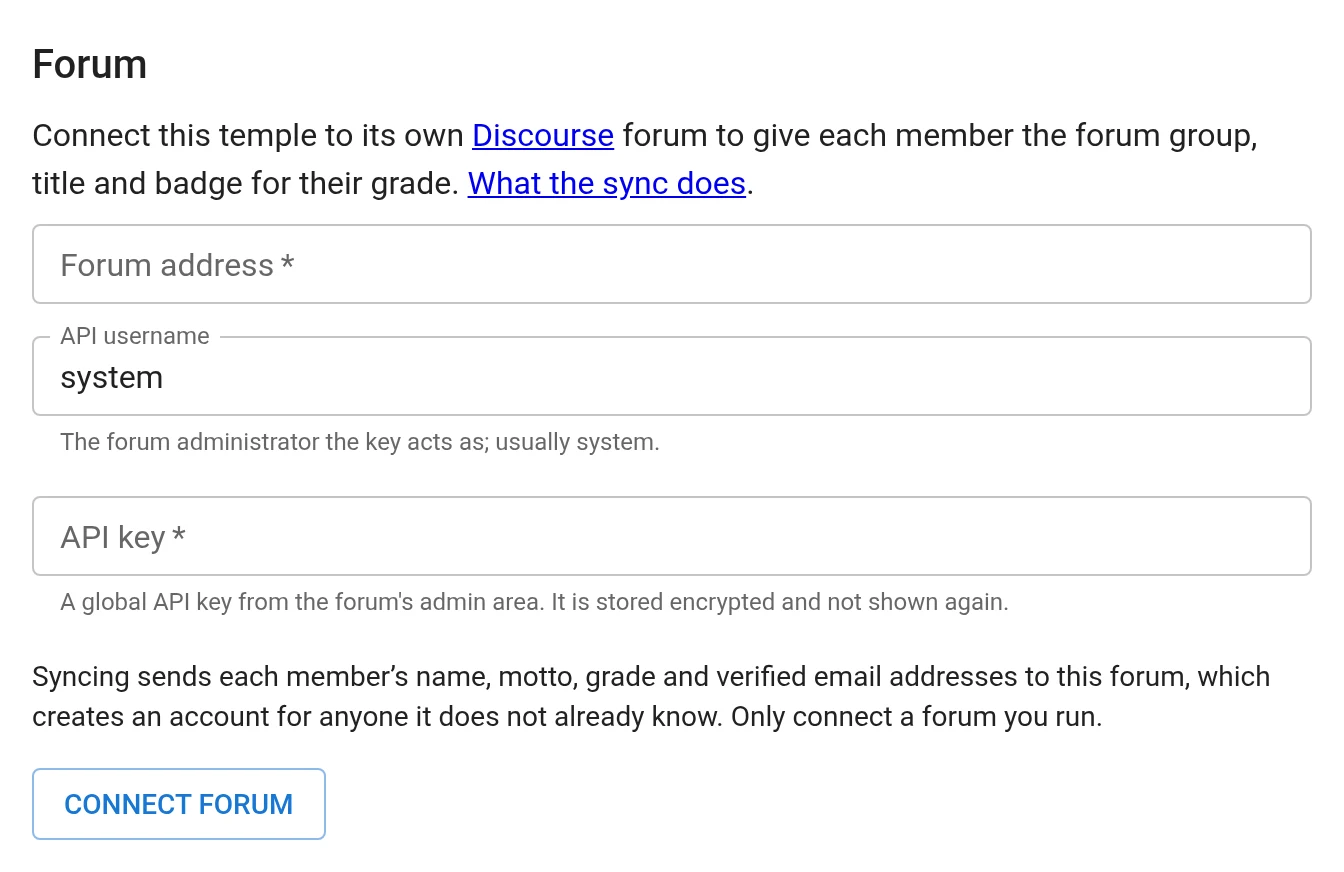
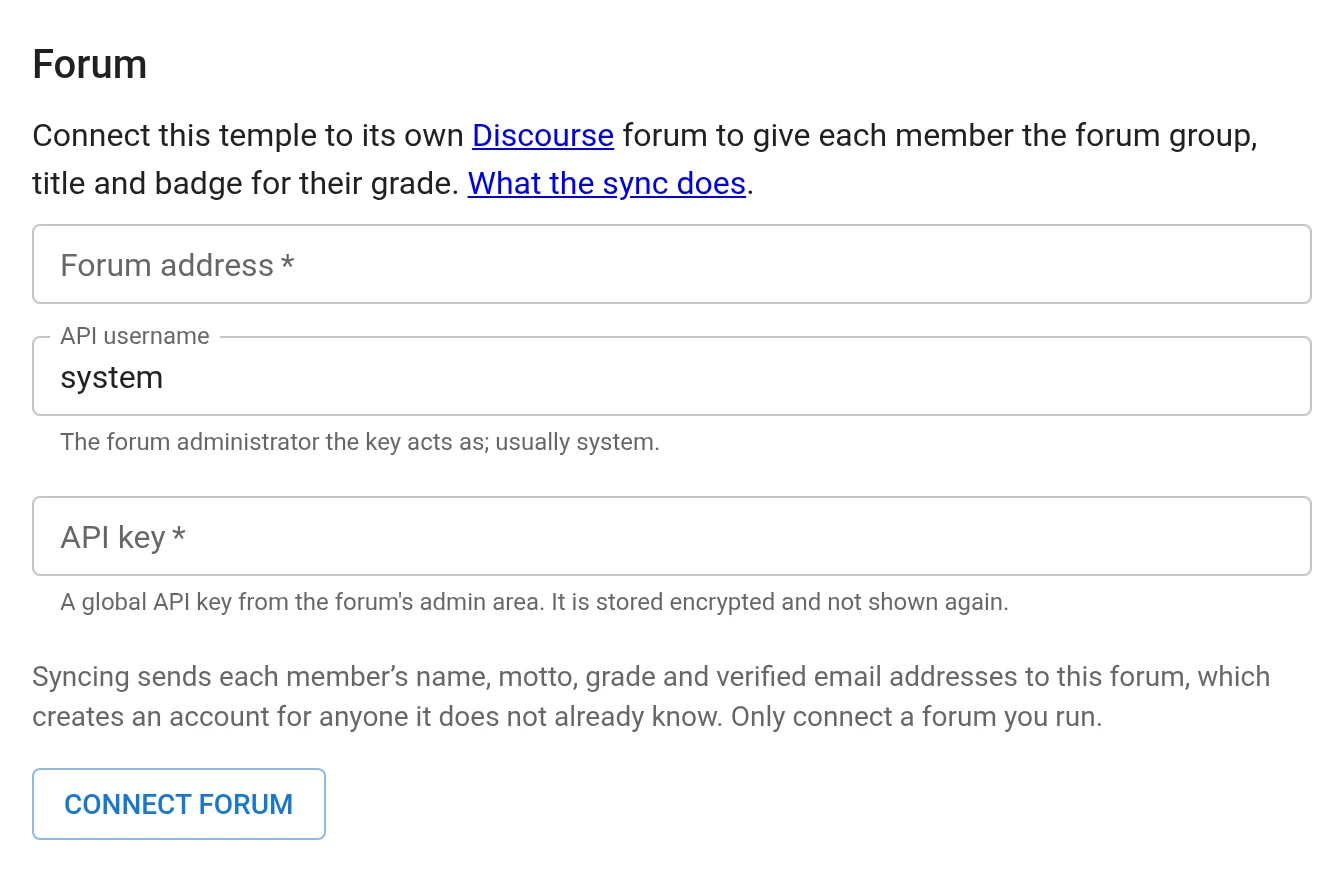
fix(app): Restore Typography colours lost in MUI 9
MUI 9 removed the deprecated system props from Typography, so a palette
path passed as `color` ("warning.main", "success.main",
"text.secondary") no longer reaches the styles: Typography's own
`color` prop only matches palette keys, and the type still accepts any
string, so nothing failed. The study pages' sync warnings, the temple
pages' confirmations and nine secondary notes have rendered in the body
colour since MUI 9 arrived (12 September, 458225ce) or since they were
written after it.

Use the palette keys Typography maps itself: `warning` and `success`
(palette.*.main) and `textSecondary` (text.secondary), as
RecentlyDeletedList already does. These were all the palette paths in
the app; every other `color` value is a palette key, `inherit`, or an
SVG attribute.

Checked in a browser on 127.0.0.1: the study, set and progress-page
warnings are now orange (#ed6c02), the temple and temple admin
confirmations green (#2e7d32), and the notes on the halls index,
upload page, ritual creation form, forum settings and ritual editor
grey (0.6 alpha) instead of the body's 0.87.

The create-ritual and forum-settings help screenshots show two of the
notes and are recaptured; only those lines change. forum-settings was
taken with capture.mts against a local dev server, because the worktree
capture gives the server no secrets key and the forum form then does not
render.

Co-authored with Claude Code (Opus 5.5, reasoning high; Fable 5.1, reasoning high)

diff --git a/src/app/gd/rituals/SqlDocAdmin.tsx b/src/app/gd/rituals/SqlDocAdmin.tsx
@@ -593,7 +593,7 @@ export default function SqlDocAdmin() {
         aria-label="Ritual creation area"
         sx={{ my: 2, minHeight: reservedHeight }}
       >
-        <Typography sx={{ my: 2 }} color="text.secondary">
+        <Typography sx={{ my: 2 }} color="textSecondary">
           Loading ritual creation access...
         </Typography>
       </Box>
@@ -627,7 +627,7 @@ export default function SqlDocAdmin() {
         <Typography
           id={helpId}
           variant="body2"
-          color="text.secondary"
+          color="textSecondary"
           sx={{ mb: 1 }}
         >
           Choose a title and who can read the ritual. Create opens the new

diff --git a/src/app/doc/[_id]/edit/semantic/SemanticEditor.tsx b/src/app/doc/[_id]/edit/semantic/SemanticEditor.tsx
@@ -1159,7 +1159,7 @@ export default function SemanticEditor(props: SemanticEditorProps) {
     );
   if (!editor || !ready)
     return (
-      <Typography color="text.secondary" sx={{ p: 2 }}>
+      <Typography color="textSecondary" sx={{ p: 2 }}>
         Verifying account and loading local draft…
       </Typography>
     );
@@ -1198,7 +1198,7 @@ export default function SemanticEditor(props: SemanticEditorProps) {
         />
         <Typography
           variant="body2"
-          color="text.secondary"
+          color="textSecondary"
           role="status"
           className={styles.status}
           title={

diff --git a/src/app/gd/halls/page.tsx b/src/app/gd/halls/page.tsx
@@ -36,13 +36,13 @@ export default function HallsPage() {
           >
             Open the editor
           </Button>
-          <Typography variant="body2" color="text.secondary">
+          <Typography variant="body2" color="textSecondary">
             Start from any hall, change it, then export it or share a link.
           </Typography>
         </div>
       </div>
       <HallIndex />
-      <Typography variant="body2" color="text.secondary">
+      <Typography variant="body2" color="textSecondary">
         East is at the top of every plan and North on the left.
       </Typography>
     </Container>

diff --git a/src/app/temples/page.tsx b/src/app/temples/page.tsx
@@ -66,12 +66,12 @@ export default async function TemplePage({
       )}
 
       {query.joined ? (
-        <Typography color="success.main" sx={{ my: 2 }} role="status">
+        <Typography color="success" sx={{ my: 2 }} role="status">
           Your temple membership is active.
         </Typography>
       ) : null}
       {query.left ? (
-        <Typography color="success.main" sx={{ my: 2 }} role="status">
+        <Typography color="success" sx={{ my: 2 }} role="status">
           You have left the temple.
         </Typography>
       ) : null}

diff --git a/src/app/temples/admin/[_id]/ForumSettings.tsx b/src/app/temples/admin/[_id]/ForumSettings.tsx
@@ -96,7 +96,7 @@ export function ForumSettings({
               }
               slotProps={{ htmlInput: { maxLength: 512 } }}
             />
-            <Typography variant="body2" color="text.secondary">
+            <Typography variant="body2" color="textSecondary">
               Syncing sends each member’s name, motto, grade and verified email
               addresses to this forum, which creates an account for anyone it
               does not already know. Only connect a forum you run.

diff --git a/src/app/upload/page.tsx b/src/app/upload/page.tsx
@@ -36,7 +36,7 @@ export default async function UploadFilePage() {
       <Typography variant="h5" component="h1" gutterBottom>
         Attach an image to a ritual
       </Typography>
-      <Typography color="text.secondary">
+      <Typography color="textSecondary">
         Choose a ritual you currently edit. The image is stored privately and
         attached to that ritual; uploading it does not create a public file
         link.

diff --git a/src/app/temples/admin/[_id]/page.tsx b/src/app/temples/admin/[_id]/page.tsx
@@ -74,7 +74,7 @@ export default async function AdminTemplePage({
     <Container sx={{ my: 2 }}>
       <Typography variant="h5">{temple.name} Temple</Typography>
       {query.removed ? (
-        <Typography color="success.main" role="status" sx={{ my: 2 }}>
+        <Typography color="success" role="status" sx={{ my: 2 }}>
           The member has been removed.
         </Typography>
       ) : null}

diff --git a/src/app/study/info/[_id]/info.tsx b/src/app/study/info/[_id]/info.tsx
@@ -52,7 +52,7 @@ export default function StudyInfo({ _id }: { _id: string }) {
     <Container sx={{ p: 2 }}>
       <Typography variant="h4">{runtime.snapshot.setId}</Typography>
       {runtime.error && (
-        <Typography color="warning.main">
+        <Typography color="warning">
           Showing progress saved on this device; sync will retry.
         </Typography>
       )}

diff --git a/src/app/study/[_id]/StudyQuiz.tsx b/src/app/study/[_id]/StudyQuiz.tsx
@@ -122,7 +122,7 @@ export default function StudyQuiz({
           </Box>
         </Stack>
         {(saveError || syncWarning) && (
-          <Typography color={saveError ? "error" : "warning.main"}>
+          <Typography color={saveError ? "error" : "warning"}>
             {saveError ?? "Saved on this device; account sync will retry."}
           </Typography>
         )}

diff --git a/src/app/doc/[_id]/edit/semantic/SemanticEditorShell.tsx b/src/app/doc/[_id]/edit/semantic/SemanticEditorShell.tsx
@@ -8,7 +8,7 @@ import type { SemanticImportReport } from "@/doc/semanticImportReport";
 const SemanticEditor = dynamic(() => import("./SemanticEditor"), {
   ssr: false,
   loading: () => (
-    <Typography color="text.secondary" sx={{ p: 2 }}>
+    <Typography color="textSecondary" sx={{ p: 2 }}>
       Loading ritual editor…
     </Typography>
   ),

diff --git a/src/app/study/study.tsx b/src/app/study/study.tsx
@@ -122,7 +122,7 @@ function StudyPage() {
         ))}
       </Select>
       {runtime.error && (
-        <Typography color="warning.main" sx={{ mt: 1 }}>
+        <Typography color="warning" sx={{ mt: 1 }}>
           Progress is saved on this device. Sync will retry when available.
         </Typography>
       )}
